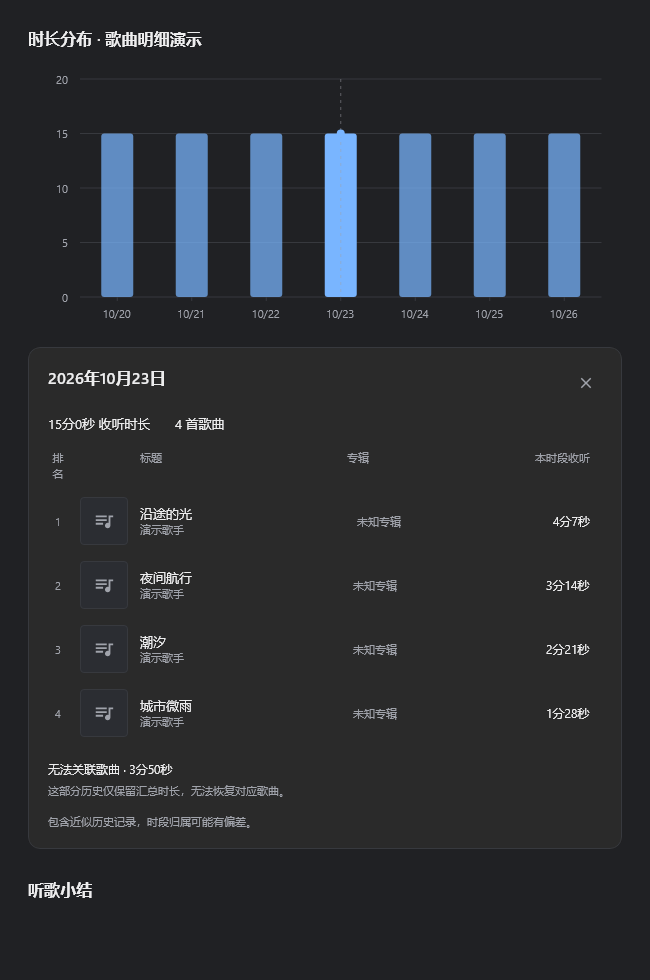
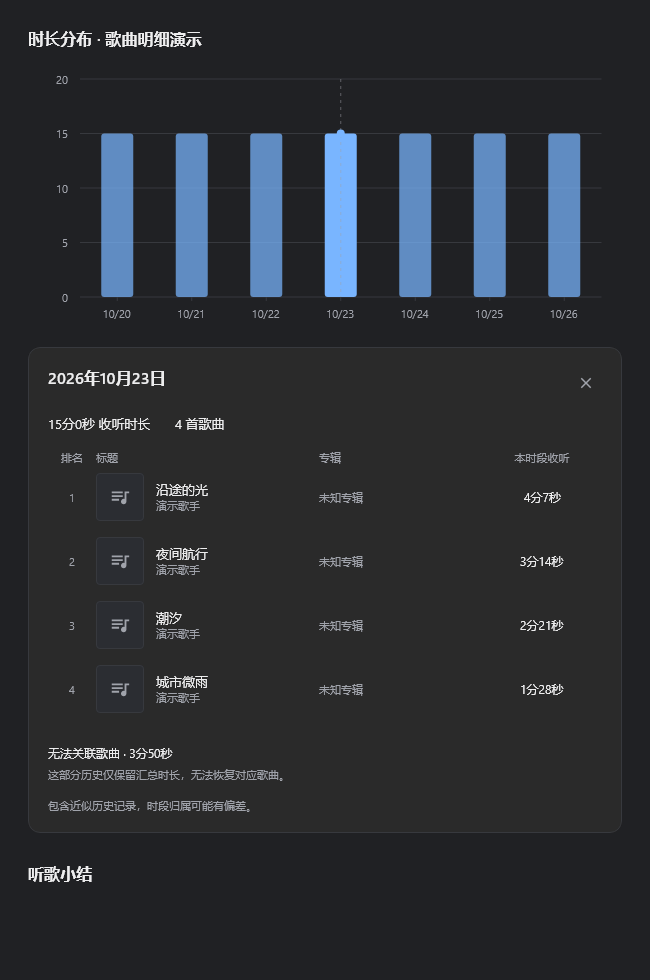
Use ranking column geometry for details

diff --git a/plugin/src/main/kotlin/com/jethuit/spw/listenstats/ui/ListeningDetailsPanel.kt b/plugin/src/main/kotlin/com/jethuit/spw/listenstats/ui/ListeningDetailsPanel.kt
@@ -84,36 +84,49 @@ fun ListeningDetailsPanel(bucket: ChartBucket, details: ListeningDetails?, visib
                 current.rows.isEmpty() && current.unknownMillis == 0L -> Text("该时段没有听歌记录",
                     style = AppType.bodySmall.copy(color = colors.muted))
                 current.rows.isNotEmpty() -> {
-                    Row(Modifier.fillMaxWidth().padding(bottom = 8.dp, end = 12.dp),
-                        horizontalArrangement = Arrangement.spacedBy(12.dp)) {
-                        Text("排名", Modifier.width(20.dp), textAlign = androidx.compose.ui.text.style.TextAlign.Center,
-                            style = AppType.tiny.copy(color = colors.muted))
-                        Spacer(Modifier.width(48.dp))
-                        Text("标题", Modifier.weight(1f), style = AppType.tiny.copy(color = colors.muted))
-                        Text("专辑", Modifier.weight(0.9f), style = AppType.tiny.copy(color = colors.muted))
-                        Text("本时段收听", textAlign = androidx.compose.ui.text.style.TextAlign.End,
-                            style = AppType.tiny.copy(color = colors.muted))
+                    BoxWithConstraints(Modifier.fillMaxWidth().padding(bottom = 8.dp, end = 12.dp)) {
+                        val widths = tableWidths(maxWidth)
+                        Row(Modifier.fillMaxWidth()) {
+                            Text("排名", Modifier.width(widths.rank), textAlign = androidx.compose.ui.text.style.TextAlign.Center,
+                                style = AppType.tableHead.copy(color = colors.muted))
+                            Text("标题", Modifier.width(widths.song),
+                                style = AppType.tableHead.copy(color = colors.muted))
+                            if (widths.album > 0.dp) Text("专辑", Modifier.width(widths.album).padding(end = 16.dp),
+                                style = AppType.tableHead.copy(color = colors.muted))
+                            Text("本时段收听", Modifier.width(widths.count),
+                                textAlign = androidx.compose.ui.text.style.TextAlign.Center,
+                                style = AppType.tableHead.copy(color = colors.muted))
+                        }
                     }
                     key(shown.start, shown.end, shown.hour) {
                         val scroll = rememberLazyListState()
                         Box(Modifier.fillMaxWidth().height((minOf(current.rows.size, visibleRows.coerceIn(3, 12)) * 64).dp)) {
                             LazyColumn(Modifier.fillMaxSize().padding(end = 12.dp), state = scroll) {
                                 itemsIndexed(current.rows, key = { _, row -> row.track.id }) { index, row ->
-                                    Row(Modifier.fillMaxWidth().height(64.dp), verticalAlignment = Alignment.CenterVertically,
-                                        horizontalArrangement = Arrangement.spacedBy(12.dp)) {
-                                        Text("${index + 1}", Modifier.width(20.dp),
-                                            textAlign = androidx.compose.ui.text.style.TextAlign.Center,
-                                            style = AppType.tiny.copy(color = colors.muted))
-                                        Cover(row.track.id)
-                                        Column(Modifier.weight(1f)) {
-                                            Text(row.track.title, maxLines = 1, overflow = TextOverflow.Ellipsis,
-                                                style = AppType.table.copy(color = colors.text))
-                                            Text(row.track.artist, maxLines = 1, overflow = TextOverflow.Ellipsis,
+                                    BoxWithConstraints(Modifier.fillMaxWidth().height(64.dp)) {
+                                        val widths = tableWidths(maxWidth)
+                                        Row(Modifier.fillMaxWidth(), verticalAlignment = Alignment.CenterVertically) {
+                                            Text("${index + 1}", Modifier.width(widths.rank),
+                                                textAlign = androidx.compose.ui.text.style.TextAlign.Center,
                                                 style = AppType.tiny.copy(color = colors.muted))
+                                            Row(Modifier.width(widths.song).padding(end = 16.dp),
+                                                horizontalArrangement = Arrangement.spacedBy(12.dp),
+                                                verticalAlignment = Alignment.CenterVertically) {
+                                                Cover(row.track.id)
+                                                Column(Modifier.weight(1f)) {
+                                                    Text(row.track.title, maxLines = 1, overflow = TextOverflow.Ellipsis,
+                                                        style = AppType.table.copy(color = colors.text))
+                                                    Text(row.track.artist, maxLines = 1, overflow = TextOverflow.Ellipsis,
+                                                        style = AppType.tiny.copy(color = colors.muted))
+                                                }
+                                            }
+                                            if (widths.album > 0.dp) Text(row.track.album.ifBlank { "未知专辑" },
+                                                Modifier.width(widths.album).padding(end = 16.dp), maxLines = 1,
+                                                overflow = TextOverflow.Ellipsis, style = AppType.tiny.copy(color = colors.muted))
+                                            Row(Modifier.width(widths.count), horizontalArrangement = Arrangement.Center) {
+                                                Text(formatDurationSeconds(row.millis), style = AppType.bodySmall.copy(color = colors.text))
+                                            }
                                         }
-                                        Text(row.track.album.ifBlank { "未知专辑" }, Modifier.weight(0.9f), maxLines = 1,
-                                            overflow = TextOverflow.Ellipsis, style = AppType.tiny.copy(color = colors.muted))
-                                        Text(formatDurationSeconds(row.millis), style = AppType.bodySmall.copy(color = colors.text))
                                     }
                                 }
                             }

diff --git a/plugin/src/main/kotlin/com/jethuit/spw/listenstats/ui/RankingPage.kt b/plugin/src/main/kotlin/com/jethuit/spw/listenstats/ui/RankingPage.kt
@@ -504,14 +504,14 @@ internal fun Cover(trackId: String) {
     }
 }
 
-private data class TableWidths(
+internal data class TableWidths(
     val rank: Dp,
     val song: Dp,
     val album: Dp,
     val count: Dp
 )
 
-private fun tableWidths(maxWidth: Dp): TableWidths {
+internal fun tableWidths(maxWidth: Dp): TableWidths {
     if (maxWidth < 440.dp) {
         val rank = 36.dp
         val count = 72.dp

diff --git a/tools/build_plugin.py b/tools/build_plugin.py
@@ -27,7 +27,7 @@ TOOLS = BUILD / 'tools'
 PLUGIN_SRC = ROOT / 'plugin' / 'src' / 'main' / 'kotlin'
 RESOURCES = ROOT / 'plugin' / 'src' / 'main' / 'resources'
 PLUGIN_ID = 'com.jethuit.spw.listenstats'
-PLUGIN_VERSION = '0.3.1-dev.1'
+PLUGIN_VERSION = '0.3.1-dev.2'
 PLUGIN_NAME = '听歌统计'
 PACKAGE_FILENAME = f'SPW-Stats-v{PLUGIN_VERSION}.spmod'
 PLUGIN_CLASS = 'com.jethuit.spw.listenstats.MainPlugin'

diff --git a/plugin/README.md b/plugin/README.md
@@ -1,6 +1,6 @@
 # 听歌统计模组源码
 
-Kotlin / Compose / Salt UI 实现，当前源码版本为 v0.3.1-dev.1，基于 SPW 1.19.2 构建，采用运行时结构发现接入宿主。安装与功能介绍见[项目首页](../README.md)，产品规则见[需求](../docs/REQUIREMENTS.md)，依赖与许可证见[第三方组件](../docs/THIRD-PARTY.md)。
+Kotlin / Compose / Salt UI 实现，当前源码版本为 v0.3.1-dev.2，基于 SPW 1.19.2 构建，采用运行时结构发现接入宿主。安装与功能介绍见[项目首页](../README.md)，产品规则见[需求](../docs/REQUIREMENTS.md)，依赖与许可证见[第三方组件](../docs/THIRD-PARTY.md)。
 
 ## 目录
 
@@ -20,7 +20,7 @@ py -3.12 tools/prepare_toolchain.py --spw-dir "E:\SteamLibrary\steamapps\common\
 py -3.12 tools/build_plugin.py --spw-dir "E:\SteamLibrary\steamapps\common\Salt Player for Windows"
 ```
 
-构建使用 JDK 25、缓存的 Kotlin 编译器、SaltUI 及对应宿主 jar。每次构建比较安装目录与缓存宿主文件的内容，更新后自动刷新缓存，避免相同文件大小的宿主更新被漏过。工具链缓存位于 `build/tools/`，不提交 Git。版本号以 `tools/build_plugin.py` 的 `PLUGIN_VERSION` 为准；当前开发包为 `0.3.1-dev.1`，正式版 `0.3.0` 保持不变；安装包输出到 `build/libs/SPW-Stats-v<版本>.spmod`，解包目录为 `build/install/spw-listen-stats/`。
+构建使用 JDK 25、缓存的 Kotlin 编译器、SaltUI 及对应宿主 jar。每次构建比较安装目录与缓存宿主文件的内容，更新后自动刷新缓存，避免相同文件大小的宿主更新被漏过。工具链缓存位于 `build/tools/`，不提交 Git。版本号以 `tools/build_plugin.py` 的 `PLUGIN_VERSION` 为准；当前开发包为 `0.3.1-dev.2`，正式版 `0.3.0` 保持不变；安装包输出到 `build/libs/SPW-Stats-v<版本>.spmod`，解包目录为 `build/install/spw-listen-stats/`。
 
 宿主随附的 Kotlin 模块信息缺少部分 Compose 顶层函数索引。构建通过 `tools/RestoreComposeIndex.java` 从当前宿主类的 Kotlin 注解重建运行时包及明细所需的点击、焦点、惰性列表和滚动条编译索引，输出 `build/tools/spw-compose-compile-index.jar`；不需要旧宿主，也不修改安装文件。该文件只用于编译，不进入 `.spmod`，运行时仍使用宿主 Compose 类。
 
